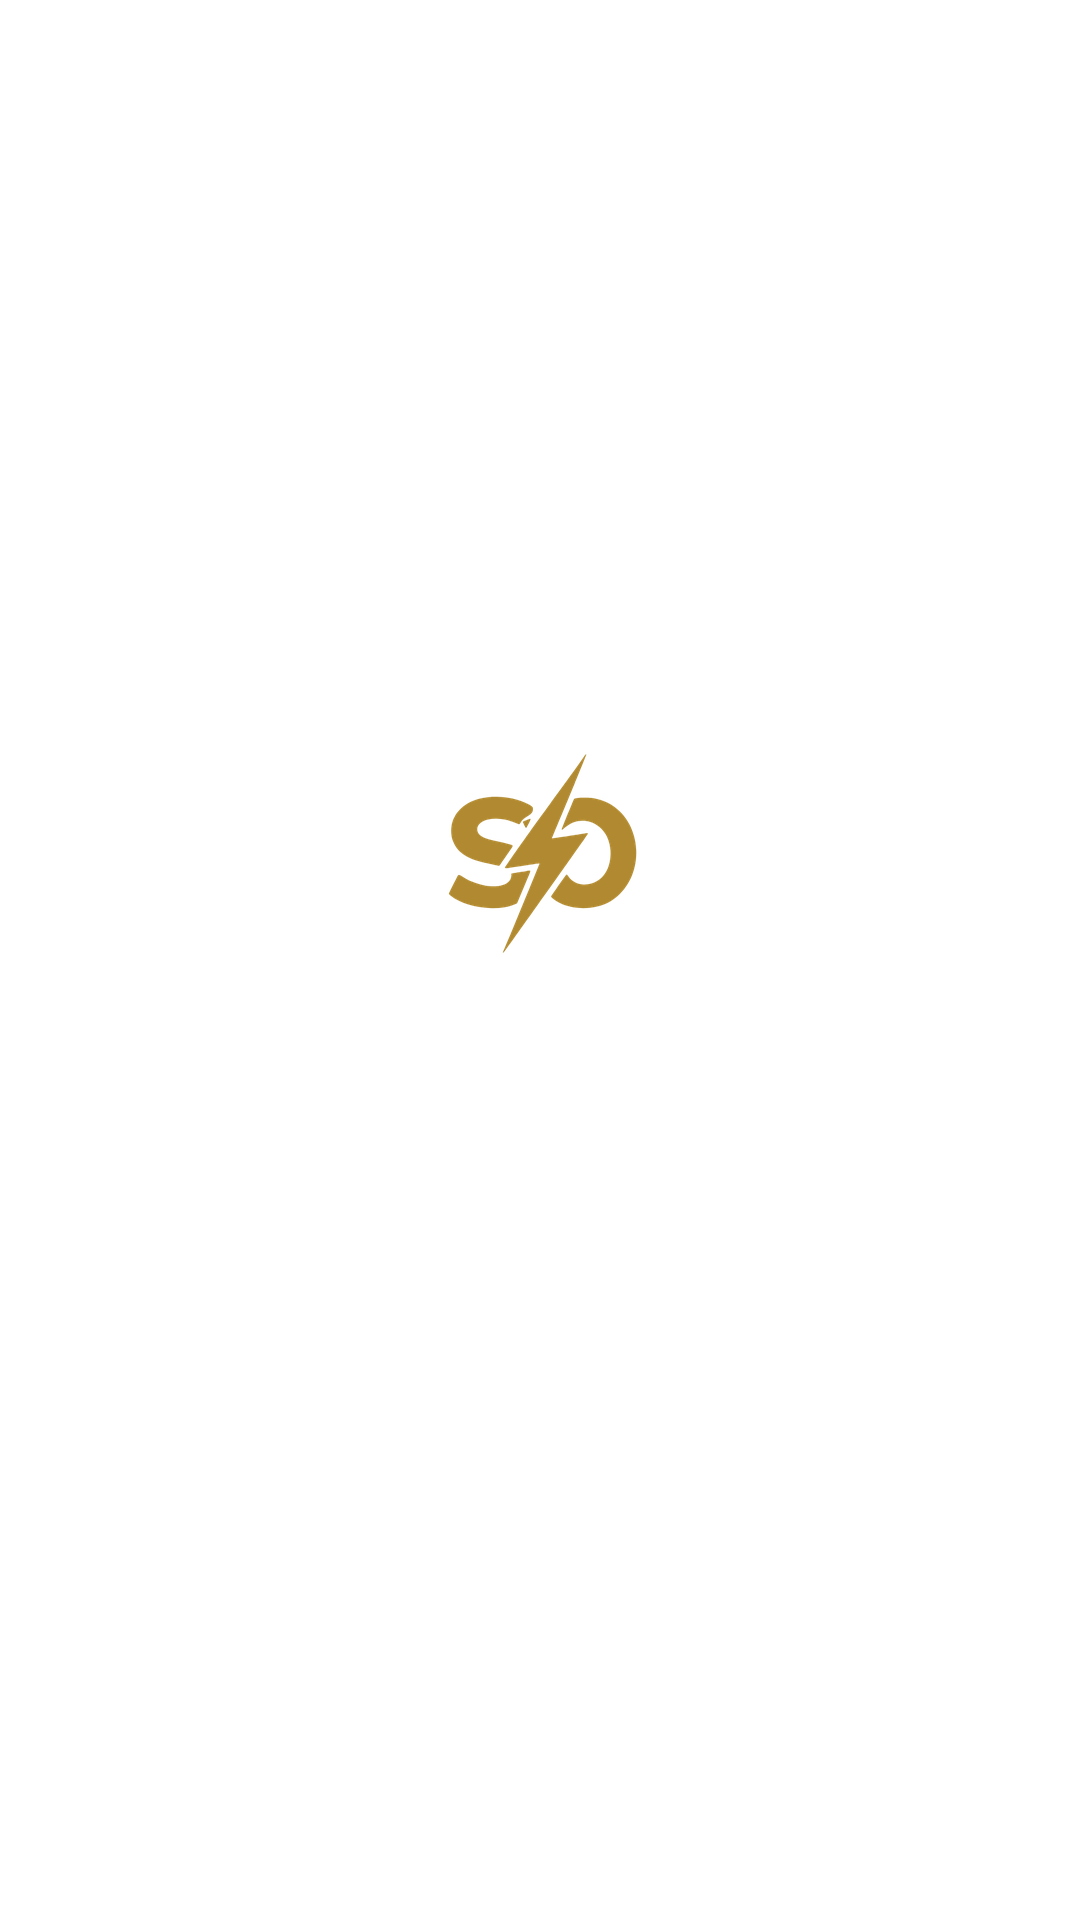
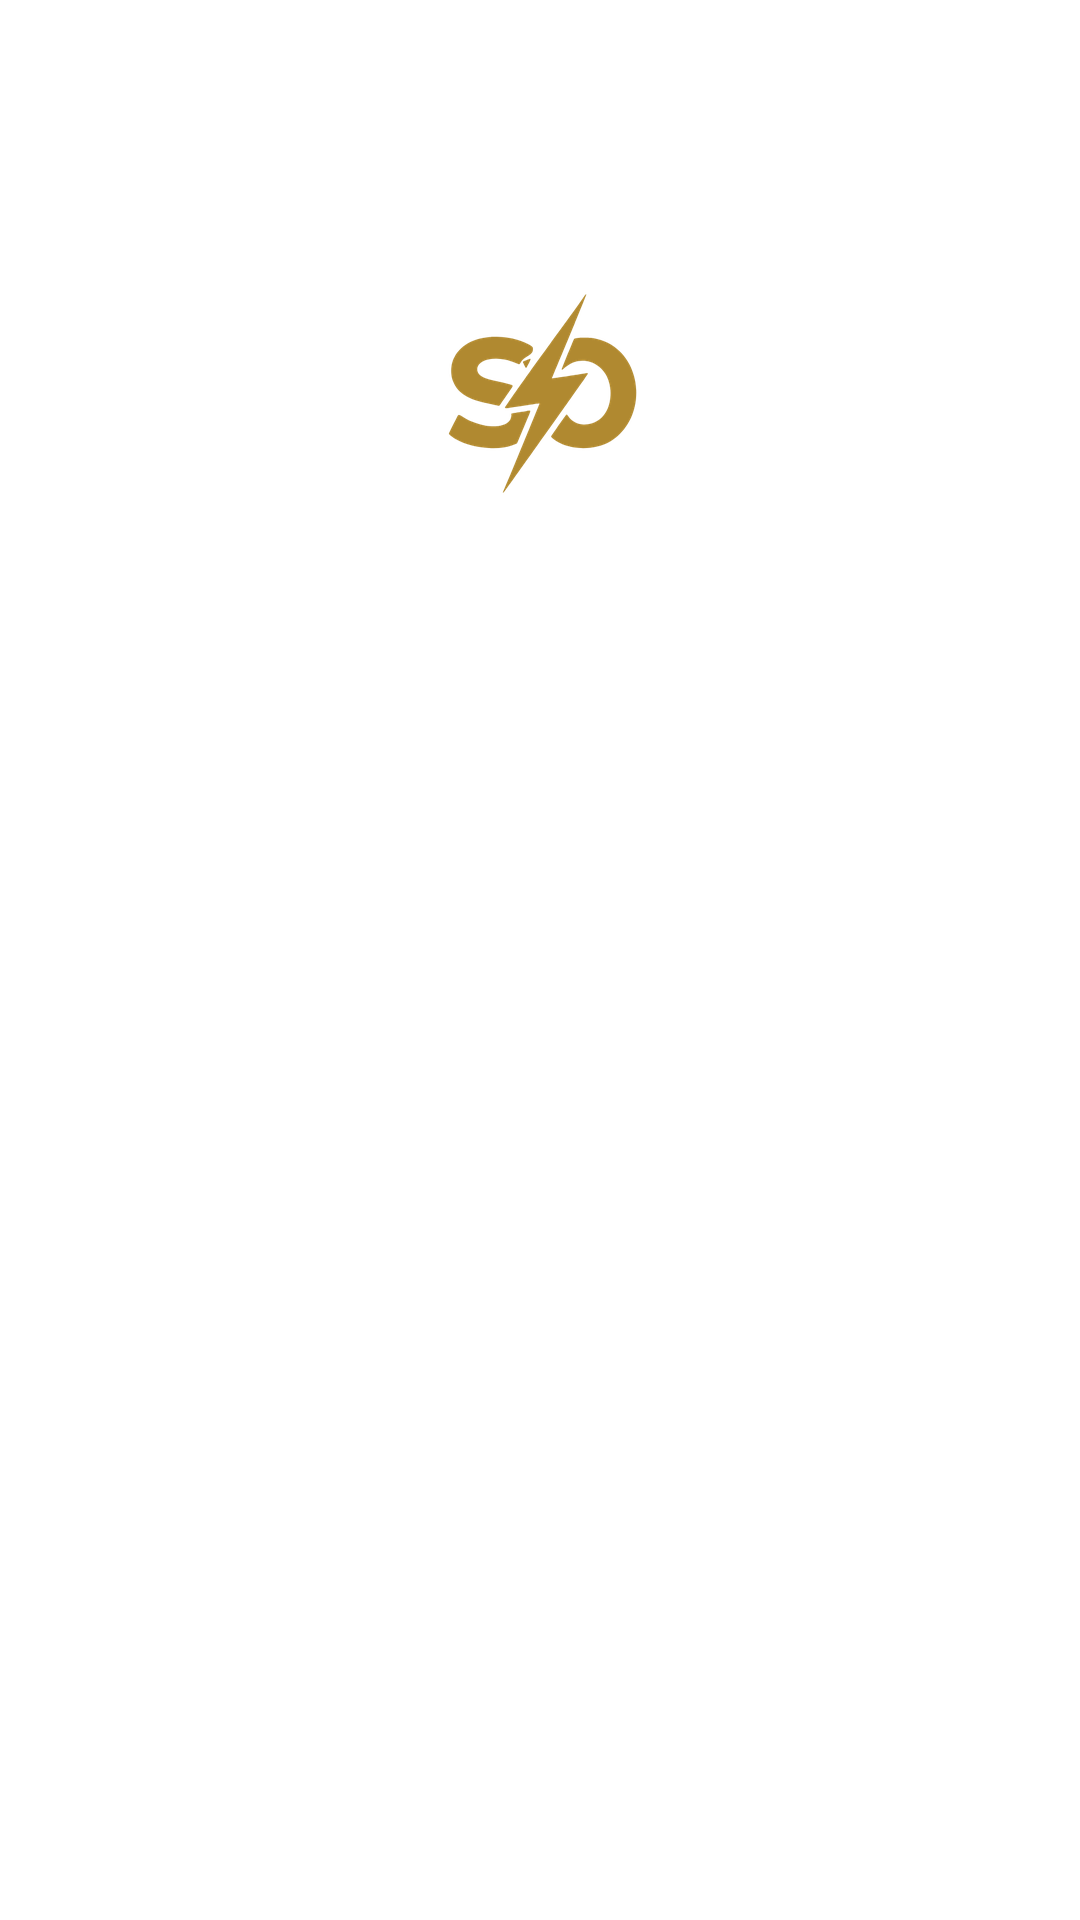
video/overlays: demo-owner monogram raised above the head (GA 04:1x) - Mateo y=240 300px, Margaret own file y=110 140px

Changed region(s): [[0.3972, 0.1562, 0.6111, 0.25], [0.3972, 0.4062, 0.6111, 0.5]]

diff --git a/video/overlays/DEMO-OWNER-FINAL.md b/video/overlays/DEMO-OWNER-FINAL.md
@@ -9,8 +9,18 @@
 | файл | что | sha256 |
 |---|---|---|
[5 lines of base64/hex data omitted]
+
+## 🔄 13.09 04:1x — знак поднят над головой
+
+| кадр | файл знака | знак мин. со скримом |
+|---|---|---|
+| mateo s17 | `monogram-gold-1080x1920.png` (y=240, 300 px) | **5.48:1** |
+| margaret s17 | `monogram-gold-1080x1920-margaret.png` (y=110, 140 px) | **5.40:1** |
+
+Таблица ниже — замер первой версии (знак на y=700), оставлена как обоснование скрима.
 
 ## 🔴 Порядок слоёв обязателен: кадр → скрим → знак → плашка
 
